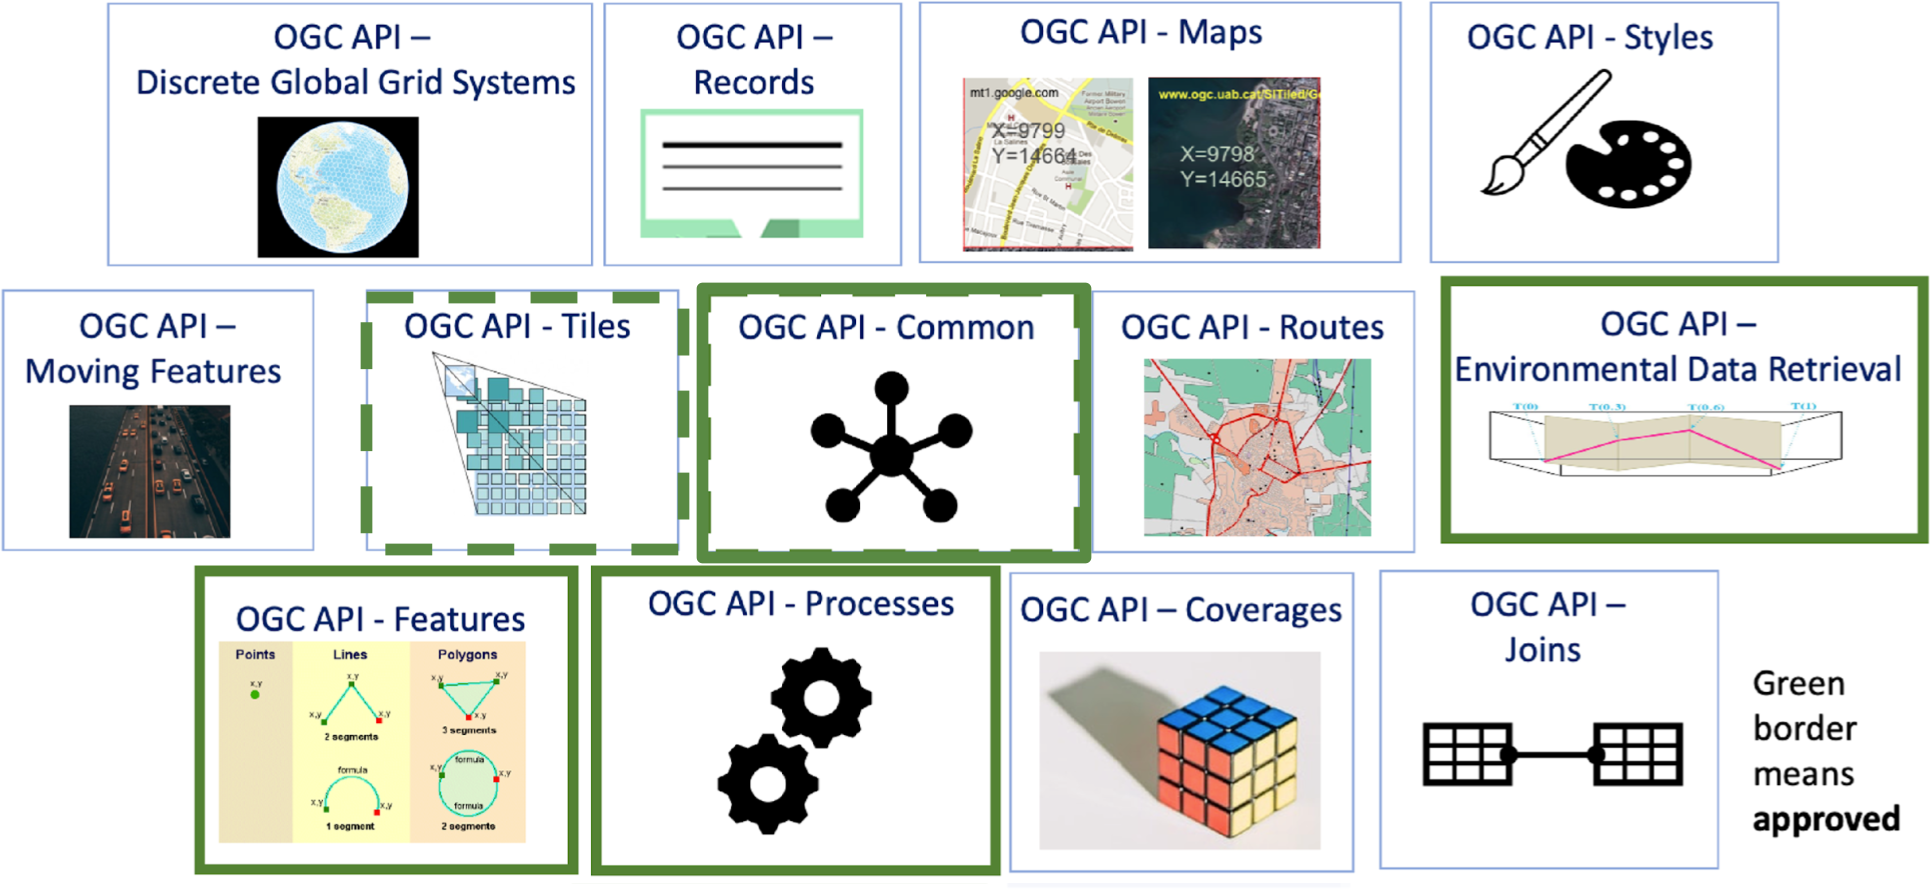
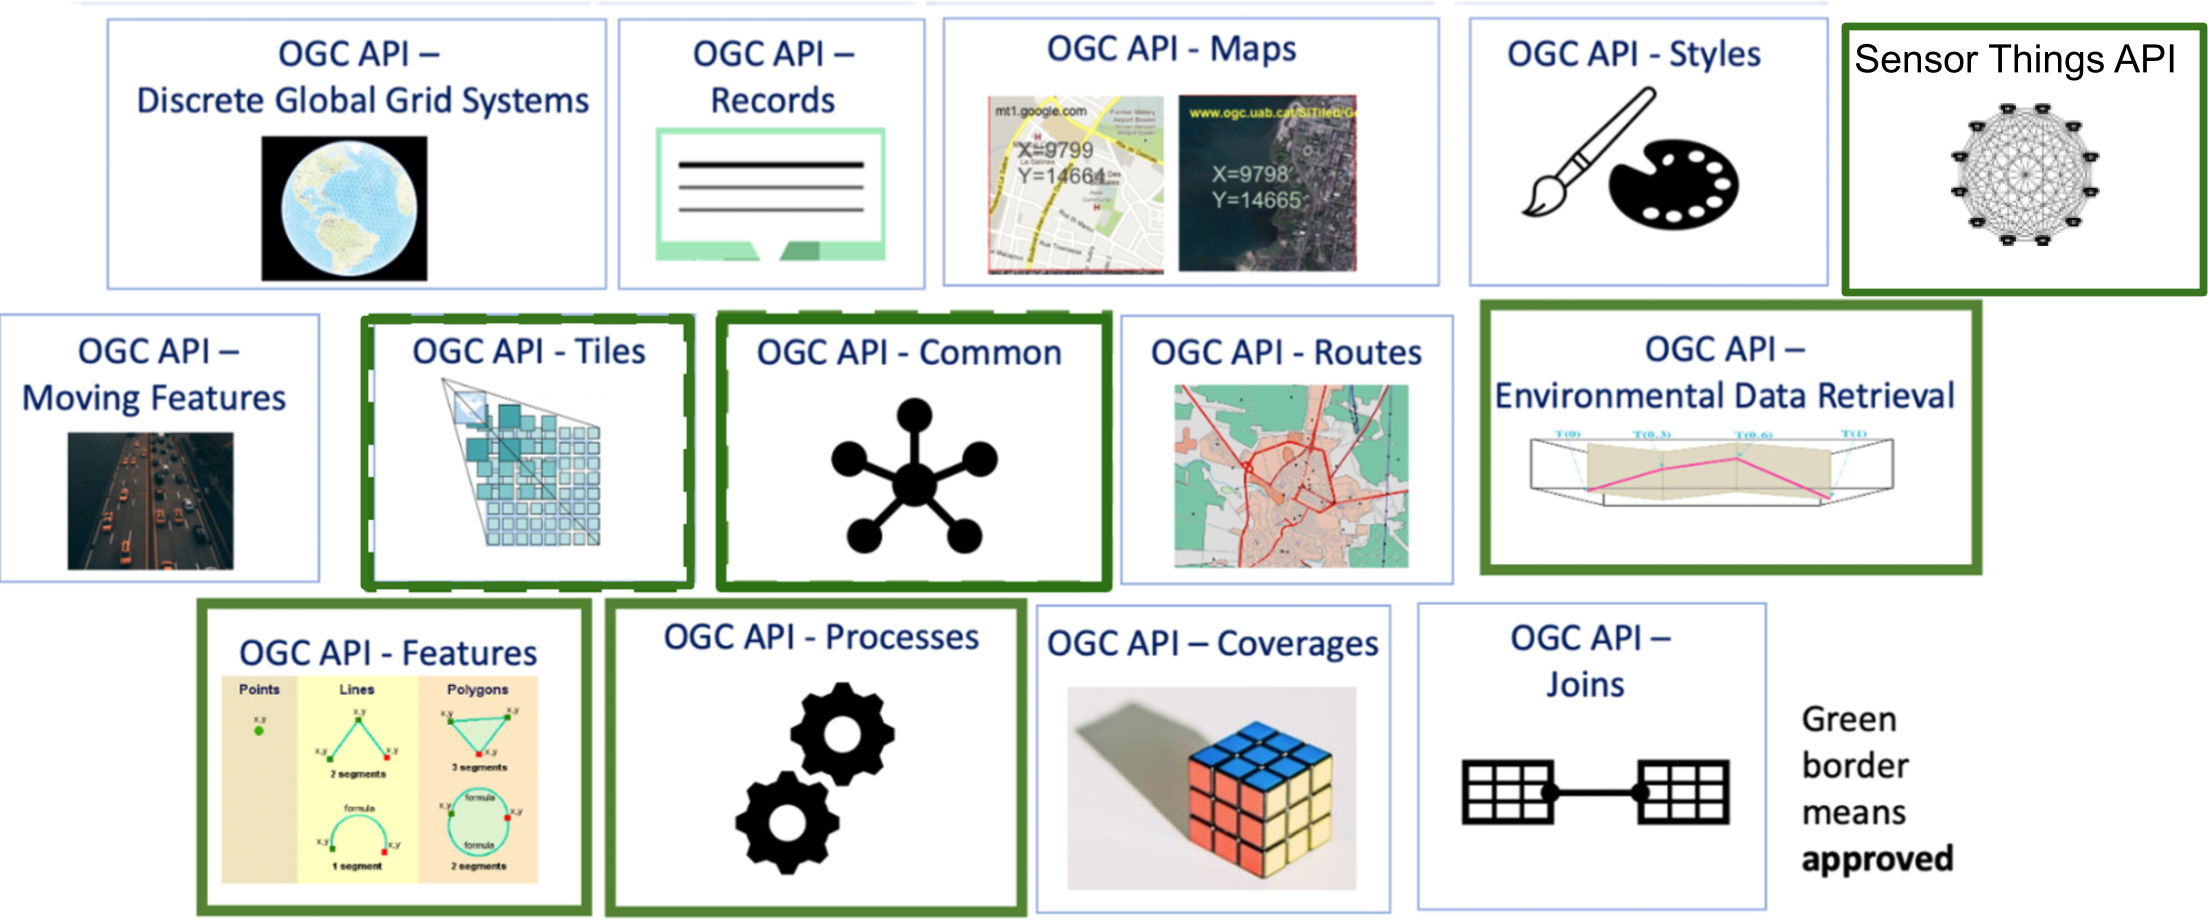
Update Standards Section (#148)
* - updated bblocks url

* - removed maps from the more section, as they are already implemented in pygeoapi

* - updated ogcapi overview image

* - added tiles as RI

* - added reference to ogcapi workshop

* - added planned standards

* link to the latest P&P

---------

diff --git a/workshop/content/docs/standards.md b/workshop/content/docs/standards.md
@@ -23,6 +23,10 @@ pygeoapi implements the [OGC API](https://ogcapi.ogc.org) suite of standards fro
 
     These standards are being constructed as "building blocks" that can be used to assemble novel APIs for web access to geospatial content. The building blocks are defined not only by the requirements of the specific standards, but also through interoperability prototyping and testing in OGC's Innovation Program. 
 
+!!! Tip
+
+    You can learn more about OGC APIs on this workshop: <https://ogcapi-workshop.ogc.org/>
+
 #### OGC API - Common
 
 [OGC API - Common](https://ogcapi.ogc.org/common/) is a common framework used in all OGC API's. 
@@ -51,14 +55,13 @@ can mix and match OGC APIs together.
 
 ![OGC API building blocks](assets/images/ogc-api-building-blocks.png)
 
-You can read more about this topic in the [building blocks website](https://opengeospatial.github.io/bblocks/).
+You can read more about this topic in the [building blocks website](https://blocks.ogc.org/).
 
 #### More OGC APIs
 
 The OGC API effort is rapidly evolving. Numerous OGC API standards are in development, and will be implemented in
 pygeoapi over time:
 
-- [Maps](https://ogcapi.ogc.org/maps) can serve spatially referenced and dynamically rendered map imagery
 - [Routes](https://ogcapi.ogc.org/routes) provides access to routing data
 - [Styles](https://ogcapi.ogc.org/styles) defines a Web API that enables map servers, clients as well as visual style editors, to manage and fetch styles
 - [3D GeoVolumes](https://ogcapi.ogc.org/geovolumes) facilitates efficient discovery of and access to 3D content in multiple formats based on a space-centric perspective
@@ -70,14 +73,18 @@ pygeoapi over time:
 
 #### OGC APIs supported by pygeoapi
 
-pygeoapi is an OGC API Reference Implemetnation and implements numerous OGC API standards.
+pygeoapi implements numerous OGC API standards and draft standards. In addition, it is a Reference Implementation for some of them. From OGC [Compliance Testing Program Policies & Procedures 08-134r11](https://docs.ogc.org/pol/08-134r11.html#toc26):
+
+!!! Citation
+
+    A Reference Implementation is a fully functional, licensed copy of a tested, branded software that has passes the test for an associated conformance class in a version of an Implementation Standard and that is free and publicly available for testing via a web service or download.
 
 
 | Standard                               | pygeoapi status | Included in this workshop |
 |----------------------------------------|-----------------|---------------------------|
 | OGC API - Features                     | Reference       | ✅                        |
 | OGC API - Coverages                    | Implementing    | ✅                        |
-| OGC API - Tiles                        | Implementing    | ✅                        |
+| OGC API - Tiles                        | Reference       | ✅                        |
 | OGC API - Maps                         | Implementing    | ✅                        |
 | OGC API - Processes                    | Implementing    | ✅                        |
 | OGC API - Records                      | Implementing    | ✅                        |
@@ -85,6 +92,8 @@ pygeoapi is an OGC API Reference Implemetnation and implements numerous OGC API 
 | SpatioTemporal Asset Catalog           | Implementing    |                           |
 | OGC API - Routes                       | Planned         |                           |
 | OGC API - Styles                       | Planned         |                           |
+| OGC API - Moving Features              | Planned         |                           |
+| OGC API - DGGS                         | Planned         |                           |
 
 In the next section we will dive into the dedicated API's related to specific types of information. You will
 notice that all APIs are combined and available via a single OGC API endpoint, thanks to OGC API - Common.
